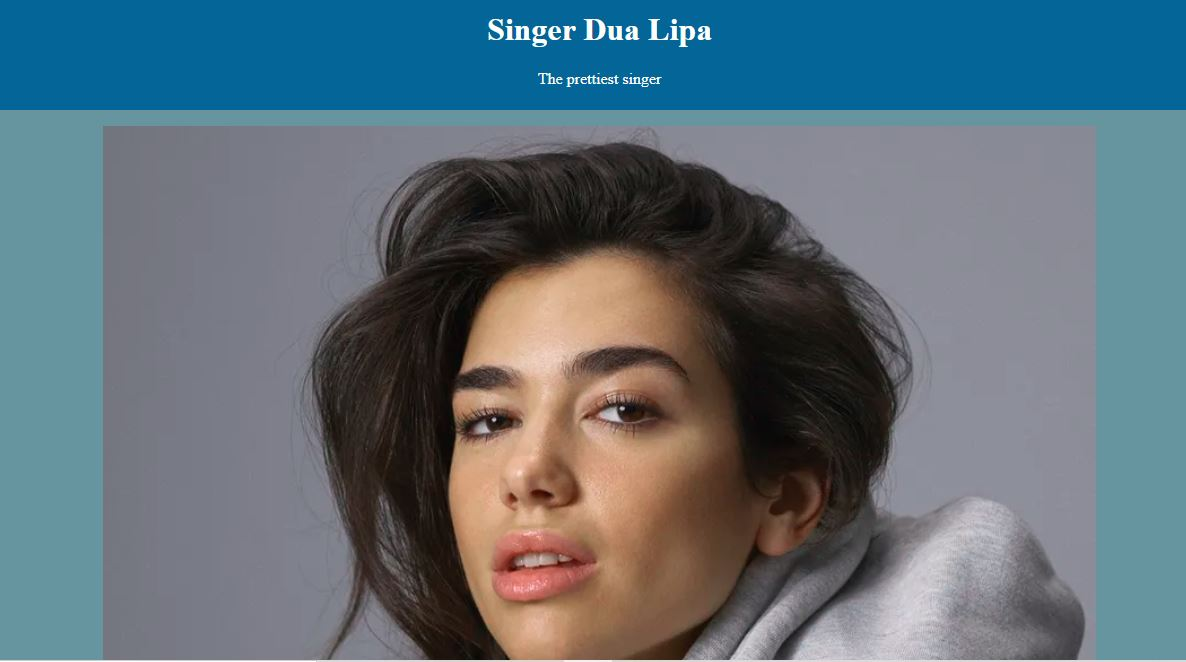
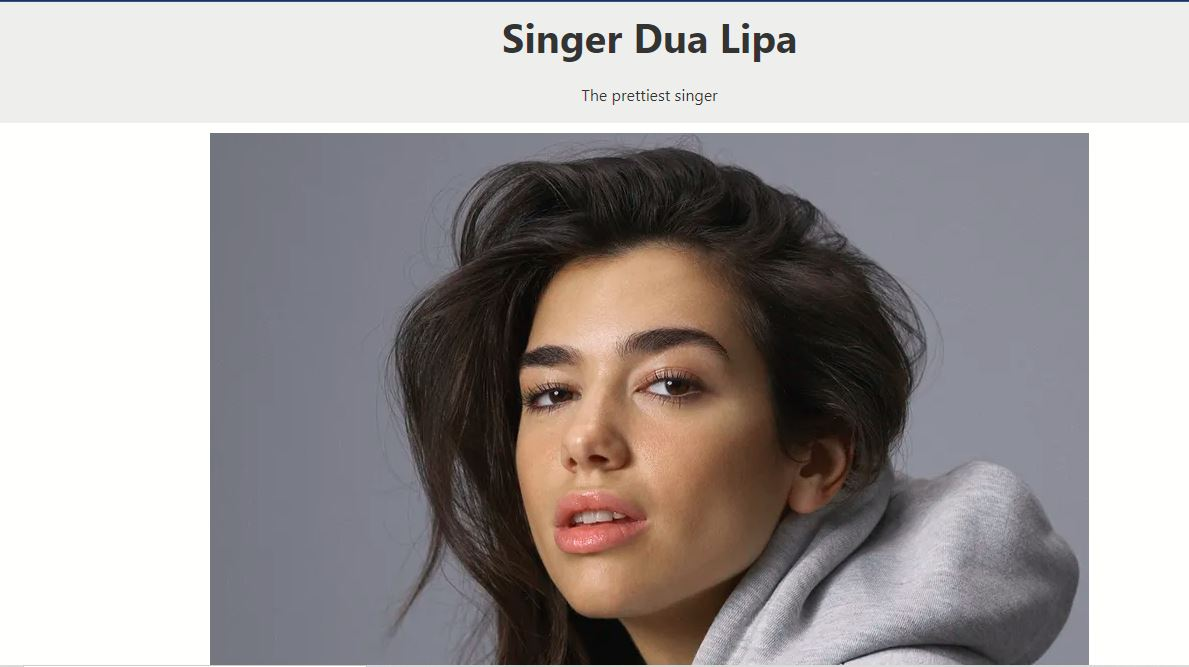
tribute page completed

diff --git a/Tribute Page/index.html b/Tribute Page/index.html
@@ -1,5 +1,6 @@
 <!DOCTYPE html>
 <html lang="en">
+
 <head>
     <meta charset="UTF-8">
     <meta http-equiv="X-UA-Compatible" content="IE=edge">
@@ -7,38 +8,43 @@
     <title>DuaLipa</title>
     <link rel="stylesheet" href="style.css">
 </head>
+
 <body>
     <main id="main">
-        <div class="dua-img">
-            <div class="name">
-                <h1 id="title">Singer Dua Lipa</h1>
-            <p>The prettiest singer</p>
-            </div>
-                <figure id="img-div">
-                    <img src="https://resizer.glanacion.com/resizer/aB3B98rw5ME5m7KTof_gU3D5xvw=/879x0/filters:format(webp):quality(80)/cloudfront-us-east-1.images.arcpublishing.com/lanacionar/SCJ7NVOYZVGZPB6XWXHFUQOMM4.JPG" 
-                    id="image" 
-                    alt="dua lipa photo">
-                    <figcaption id="img-caption">
-                        Dua Lipa is a British singer, songwriter, model and actress of Kosovar Albanian descent.
-                    </figcaption>
-                </figure>
-
-        </div>
-        <div id="tribute-info">
-            <h3>Here's a little time line of Dua Lipa's life:</h3>
+        <h1 id="title">Singer Dua Lipa</h1>
+        <p>The prettiest singer</p>
+        <figure id="img-div">
+            <img id="image"
+                src="https://resizer.glanacion.com/resizer/aB3B98rw5ME5m7KTof_gU3D5xvw=/879x0/filters:format(webp):quality(80)/cloudfront-us-east-1.images.arcpublishing.com/lanacionar/SCJ7NVOYZVGZPB6XWXHFUQOMM4.JPG"
+                alt="Dua bb photo" />
+            <figcaption id="img-caption">
+                Dua Lipa is a British singer, songwriter, model and actress of Kosovar Albanian descent.
+            </figcaption>
+        </figure>
+        <section id="tribute-info">
+            <h3 id="headline">Here's a little time line of Dua Lipa's life:</h3>
             <ul>
-                <li><strong>1995</strong> -Born in the Westminster district of the City of London</li>
-                <li><strong>2013</strong> -Signed a contract with Tap Management, managed by Ben Mawson and Ed Millett</li>
-                <li><strong>2015</strong> -He published his next single, "Be the One", with which he rose to fame abroad, reaching the top positions of popularity in several European countries, including number 1 in Belgium, Poland and Slovakia.</li>
-                <li><strong>2016</strong> -Collaborated with Jamaican singer Sean Paul</li>
+                <li><strong>1995</strong> - Born in the Westminster district of the City of London</li>
+                <li>
+                    <strong>2013</strong> - Signed a contract with Tap Management, managed by Ben Mawson and Ed Millett
+                </li>
+                <li>
+                    <strong>2015</strong> - He published his next single, "Be the One", with which he rose to fame
+                    abroad, reaching the top positions of popularity in several European countries, including number 1
+                    in Belgium, Poland and Slovakia.
+                </li>
+                <li>
+                    <strong>2016</strong> - Collaborated with Jamaican singer Sean Paul
+                </li>
             </ul>
-            <div class="about">
-                <h4>Read more about </h4>
-                <a href="https://es.wikipedia.org/wiki/Dua_Lipa" id="tribute-link" target="_blank">
-                    <h4> Dua Lipa..</h4>
-                </a>
-            </div>
-        </div>
+
+            <h3>
+                You can read more about
+                <a id="tribute-link" href="https://es.wikipedia.org/wiki/Dua_Lipa" target="_blank">Dua Lipa</a>.
+            </h3>
+        </section>
     </main>
+
 </body>
+
 </html>

diff --git a/Tribute Page/style.css b/Tribute Page/style.css
@@ -1,54 +1,90 @@
+html {
+
+    font-size: 10px;
+}
+
 body {
-    background-color: #74959A;
-}
-
-div {
-    padding: 6px 6px;
-}
-
-.dua-img{
-    background-color: #74959A;
+    font-family: -apple-system, BlinkMacSystemFont, 'Segoe UI', 'Roboto',
+        'Helvetica Neue', Arial, sans-serif;
+    font-size: 1.6rem;
+    line-height: 1.5;
     text-align: center;
+    color: #333;
+    margin: 0;
 }
 
-.name {
-    background-color: #1C658C;
-    text-align: center;
+h1 {
+    font-size: 4rem;
+    margin-bottom: 0;
+}
+
+@media (max-width: 460px) {
+    h1 {
+        font-size: 3.5rem;
+        line-height: 1.2;
+    }
+}
+
+h2 {
+    font-size: 3.25rem;
+}
+
+a {
+    color: #477ca7;
+}
+
+a:visited {
+    color: #74638f;
 }
 
 #main {
-    background-color: #1C658C;
+    margin: 30px 8px;
+    padding: 15px;
+    border-radius: 5px;
+    background: #eee;
 }
 
-#main img{
-    width:80%;
-}
-
-#main>div {
-    margin-bottom: 20px;
-    color: white;
-}
-
-.about {
-    display: flex;
-}
-
-.about a {
-    margin-left: 10px;
-}
-
-
-#tribute-info li {
-    text-align: left;
-}
-
-#tribute-info a {
-    text-decoration: none;
-    color: rgb(185, 223, 219);
-}
-
-@media(max-width:750px){
-    #main img{
-        width:90%;
+@media (max-width: 460px) {
+    #main {
+        margin: 0;
     }
+}
+
+img {
+    max-width: 100%;
+    display: block;
+    height: auto;
+    margin: 0 auto;
+}
+
+#img-div {
+    background: white;
+    padding: 10px;
+    margin: 0;
+}
+
+#img-caption {
+    margin: 15px 0 5px 0;
+}
+
+@media (max-width: 460px) {
+    #img-caption {
+        font-size: 1.4rem;
+    }
+}
+
+#headline {
+    margin: 50px 0;
+    text-align: center;
+}
+
+ul {
+    max-width: 550px;
+    margin: 0 auto 50px auto;
+    text-align: left;
+    line-height: 1.6;
+}
+
+li {
+    margin: 16px 0;
 }
